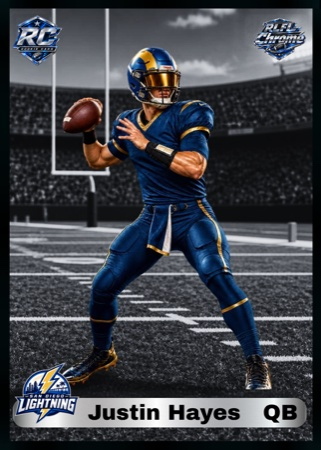
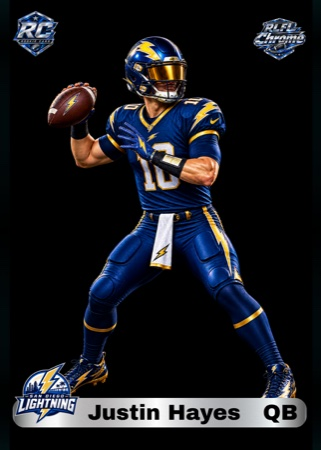
Replace Justin Hayes art with new blank-background redesign
Swaps all 18 non-Case-Hit tiers for Justin Hayes with the new
blank-background look (same filenames, so no code changes needed).
Case Hit still uses the old comic-style art as a placeholder — no new
version was sent for it, and it doesn't share the stadium-background
look this redesign was moving away from anyway.

Bumped the service worker cache since these are same-filename image
replacements — otherwise anyone with the PWA already installed would
keep seeing the old stadium-background art indefinitely.

diff --git a/sw.js b/sw.js
@@ -1,6 +1,6 @@
 // RipLab service worker — enables "install" + offline play.
 // Bump CACHE_NAME whenever you change any cached file so clients pick up the update.
-var CACHE_NAME = "riplab-v25";
+var CACHE_NAME = "riplab-v26";
 var CORE_ASSETS = [
   "./",
   "./index.html",
